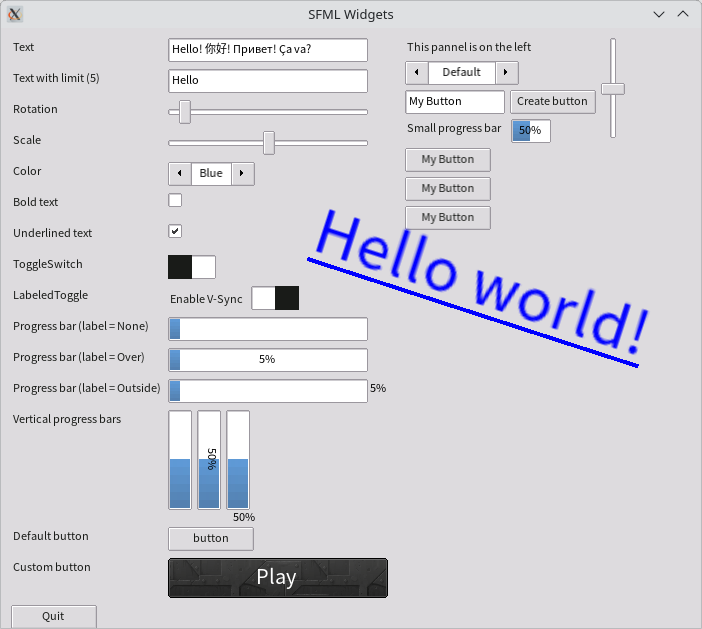
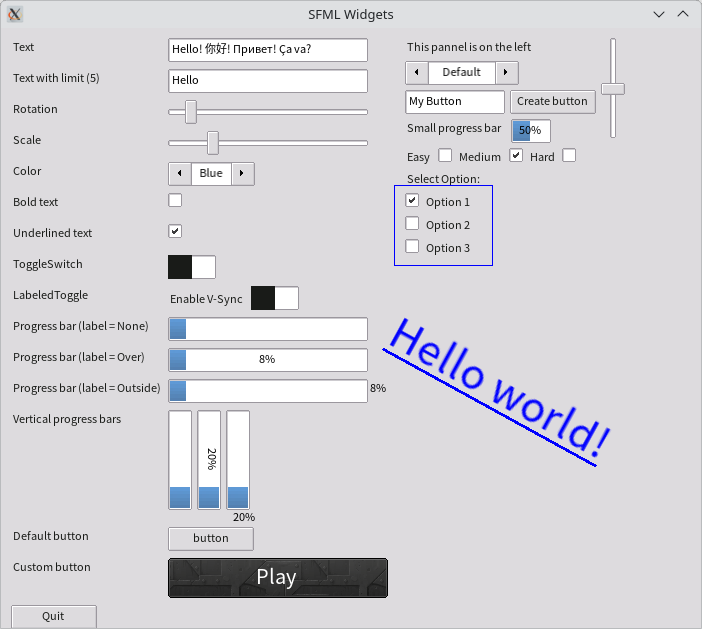
sfml3-widgets

diff --git a/src/Gui/CheckBoxVGroup.hpp b/src/Gui/CheckBoxVGroup.hpp
@@ -1,0 +1,116 @@
+#pragma once
+#include <vector>
+#include <string>
+#include <functional>
+#include <SFML/Graphics/RectangleShape.hpp>
+#include "Gui/Layouts/VBoxLayout.hpp"
+#include "Gui/CheckBox.hpp"
+#include "Gui/Label.hpp"
+#include "Gui/Layouts/HBoxLayout.hpp"
+
+class CheckBoxVGroup : public gui::VBoxLayout {
+private:
+    std::vector<gui::CheckBox*> m_buttons;
+    gui::CheckBox* m_selectedButton = nullptr;
+    std::function<void(int)> m_onChangedCallback = nullptr;
+    bool m_isUpdating = false;
+    gui::Label* m_headerLabel = nullptr;
+    bool m_hasBorder = true;
+    float m_borderThickness = 2.f;
+    sf::Color m_borderColor = sf::Color(150, 150, 150);
+    float m_padding = 8.f;
+
+public:
+    CheckBoxVGroup() : gui::VBoxLayout() {}
+
+    void setHeader(const std::string& text) {
+        if (!m_headerLabel) {
+            m_headerLabel = new gui::Label(text);
+            this->add(m_headerLabel);
+        } else {
+            m_headerLabel->setText(text);
+        }
+    }
+
+    void setBorder(bool enable, sf::Color color = sf::Color(150, 150, 150), float thickness = 2.f, float padding = 8.f) {
+        m_hasBorder = enable;
+        m_borderColor = color;
+        m_borderThickness = thickness;
+        m_padding = padding;
+    }
+
+    void addOption(const std::string& text) {
+        gui::HBoxLayout* row = new gui::HBoxLayout();
+        gui::CheckBox* checkbox = new gui::CheckBox();
+        gui::Label* label = new gui::Label(text);
+
+        row->add(checkbox);
+        row->add(label);
+        this->add(row);
+
+        m_buttons.push_back(checkbox);
+        int index = static_cast<int>(m_buttons.size()) - 1;
+
+        checkbox->setCallback([this, checkbox, index]() {
+            if (m_isUpdating) return;
+            m_isUpdating = true;
+
+            if (checkbox == m_selectedButton && !checkbox->isChecked()) {
+                checkbox->check(true);
+            } else if (checkbox->isChecked()) {
+                for (auto* btn : m_buttons) {
+                    if (btn != checkbox) btn->check(false);
+                }
+                m_selectedButton = checkbox;
+
+                if (m_onChangedCallback) {
+                    m_onChangedCallback(index);
+                }
+            }
+            m_isUpdating = false;
+        });
+
+        if (m_buttons.size() == 1) {
+            select(0);
+        }
+    }
+
+    void select(int index) {
+        if (index >= 0 && index < static_cast<int>(m_buttons.size())) {
+            m_buttons[index]->check(true);
+        }
+    }
+
+    int getSelectedIndex() const {
+        for (int i = 0; i < static_cast<int>(m_buttons.size()); ++i) {
+            if (m_buttons[i] == m_selectedButton) return i;
+        }
+        return -1;
+    }
+
+    void setOnChanged(std::function<void(int index)> callback) {
+        m_onChangedCallback = callback;
+    }
+
+    virtual void draw(sf::RenderTarget& target, sf::RenderStates states) const override {
+        gui::VBoxLayout::draw(target, states);
+
+        if (m_hasBorder) {
+            sf::Vector2f pos = this->getPosition();
+            sf::Vector2f size = this->getSize();
+
+            float topOffset = 0.f;
+            if (m_headerLabel) {
+                topOffset = m_headerLabel->getSize().y + m_padding;
+            }
+
+            sf::RectangleShape border;
+            border.setPosition({pos.x - m_padding, pos.y - m_padding + topOffset});
+            border.setSize(sf::Vector2f(size.x + (m_padding * 2), size.y + (m_padding * 2) - topOffset));
+            border.setFillColor(sf::Color::Transparent);
+            border.setOutlineColor(m_borderColor);
+            border.setOutlineThickness(m_borderThickness);
+            target.draw(border, states);
+        }
+    }
+};

diff --git a/demo/demo.cpp b/demo/demo.cpp
@@ -5,6 +5,8 @@
 
 #include "Gui/Theme.hpp"
 #include "Gui/Gui.hpp"
+#include "Gui/CheckBoxVGroup.hpp"
+#include "Gui/CheckBoxGroup.hpp"
 #include <SFML/Graphics.hpp>
 
 sf::Color hex2color(const std::string& hexcolor)
@@ -69,7 +71,7 @@ int main()
 
     sf::Text text(gui::Theme::getFont(), "Hello world!");
     text.setOrigin({text.getLocalBounds().size.x / 2, text.getLocalBounds().size.y / 2});
-    text.setPosition({480, 240});
+    text.setPosition({500, 350});
 
     // Textbox
     gui::TextBox* textbox = new gui::TextBox();
@@ -127,7 +129,7 @@ int main()
     });
     form->addRow("Color", opt);
 
-    // Checbkox
+    // Checkbox
     gui::CheckBox* checkboxBold = new gui::CheckBox();
     checkboxBold->setCallback([&]() {
         int style = text.getStyle();
@@ -150,6 +152,7 @@ int main()
     });
     form->addRow("Underlined text", checkboxUnderlined);
 
+    //ToggleSwitch
     auto* toggle1 = new gui::ToggleSwitch();
     toggle1->setCallback([&](){
         if (toggle1->isChecked()){
@@ -159,7 +162,6 @@ int main()
         }
     });
     form->addRow("ToggleSwitch", toggle1);
-
     auto* toggle2 = new gui::LabeledToggle("Enable V-Sync");
     toggle2->setCallback([&](){
         std::cout << "VSync: " << (toggle2->isChecked() ? "ON" : "OFF") << std::endl;
@@ -216,6 +218,45 @@ int main()
     hbox3->addLabel("Small progress bar");
     gui::ProgressBar* pbar = new gui::ProgressBar(40);
     hbox3->add(pbar);
+
+    //CheckBoxGroup
+    gui::Label* lblEasy = new gui::Label("Easy");
+    gui::CheckBox* optEasy = new gui::CheckBox();
+    gui::Label* lblMedium = new gui::Label("Medium");
+    gui::CheckBox* optMedium = new gui::CheckBox();
+    gui::Label* lblHard = new gui::Label("Hard");
+    gui::CheckBox* optHard = new gui::CheckBox();
+    CheckBoxGroup difficultyGroup;
+    difficultyGroup.addButton(optEasy);
+    difficultyGroup.addButton(optMedium);
+    difficultyGroup.addButton(optHard);
+    difficultyGroup.select(0);
+    difficultyGroup.setOnChanged([](gui::CheckBox* selected, int index) {
+        std::cout << "Selected index: " << index;
+        if (index == 0) { std::cout << " easy " << std::endl; }
+        if (index == 1) { std::cout << " medium " << std::endl; }
+        if (index == 2) { std::cout << " hard " << std::endl; }
+    });
+    gui::HBoxLayout* layout = new gui::HBoxLayout();
+    layout->add(lblEasy);
+    layout->add(optEasy);
+    layout->add(lblMedium);
+    layout->add(optMedium);
+    layout->add(lblHard);
+    layout->add(optHard);
+    vbox->add(layout);
+
+    //CheckBoxVGroup
+    CheckBoxVGroup* checkboxGroup = new CheckBoxVGroup();
+    checkboxGroup->setHeader("Select Option:");
+    checkboxGroup->addOption("Option 1");
+    checkboxGroup->addOption("Option 2");
+    checkboxGroup->addOption("Option 3");
+    checkboxGroup->setOnChanged([](int index) {
+        std::cout << "Selected index: " << index << std::endl;
+    });
+    checkboxGroup->setBorder(true, sf::Color::Blue, 1.f, 10.f);
+    vbox->add(checkboxGroup);
 
     gui::Slider* vslider = new gui::Slider(100, gui::Vertical);
     vslider->setCallback([&]() {

diff --git a/src/Gui/CheckBoxGroup.hpp b/src/Gui/CheckBoxGroup.hpp
@@ -1,0 +1,68 @@
+#pragma once
+#include <vector>
+#include <functional>
+#include "Gui/CheckBox.hpp"
+
+class CheckBoxGroup {
+private:
+    std::vector<gui::CheckBox*> m_buttons;
+    gui::CheckBox* m_selectedButton = nullptr;
+    std::function<void(gui::CheckBox*, int)> m_onChangedCallback = nullptr;
+    bool m_isUpdating = false;
+
+public:
+    CheckBoxGroup() = default;
+
+    void addButton(gui::CheckBox* checkbox) {
+        if (!checkbox) return;
+
+        m_buttons.push_back(checkbox);
+        int index = static_cast<int>(m_buttons.size()) - 1;
+
+        if (!m_selectedButton && checkbox->isChecked()) {
+            m_selectedButton = checkbox;
+        }
+
+        checkbox->setCallback([this, checkbox, index]() {
+            if (m_isUpdating) return;
+
+            m_isUpdating = true;
+            if (checkbox == m_selectedButton && !checkbox->isChecked()) {
+                checkbox->check(true);
+            } else if (checkbox->isChecked()) {
+                for (auto* btn : m_buttons) {
+                    if (btn != checkbox) {
+                        btn->check(false);
+                    }
+                }
+                m_selectedButton = checkbox;
+                if (m_onChangedCallback) {
+                    m_onChangedCallback(m_selectedButton, index);
+                }
+            }
+
+            m_isUpdating = false;
+        });
+    }
+
+    void select(int index) {
+        if (index >= 0 && index < static_cast<int>(m_buttons.size())) {
+            m_buttons[index]->check(true);
+        }
+    }
+
+    gui::CheckBox* getSelectedButton() const {
+        return m_selectedButton;
+    }
+
+    int getSelectedIndex() const {
+        for (int i = 0; i < static_cast<int>(m_buttons.size()); ++i) {
+            if (m_buttons[i] == m_selectedButton) return i;
+        }
+        return -1;
+    }
+
+    void setOnChanged(std::function<void(gui::CheckBox* selected, int index)> callback) {
+        m_onChangedCallback = callback;
+    }
+};

diff --git a/src/Gui/CheckBoxVGroup.cpp b/src/Gui/CheckBoxVGroup.cpp
@@ -1,0 +1,1 @@
+#include "CheckBoxVGroup.hpp"

diff --git a/src/Gui/CheckBoxGroup.cpp b/src/Gui/CheckBoxGroup.cpp
@@ -1,0 +1,1 @@
+#include "CheckBoxGroup.hpp"
